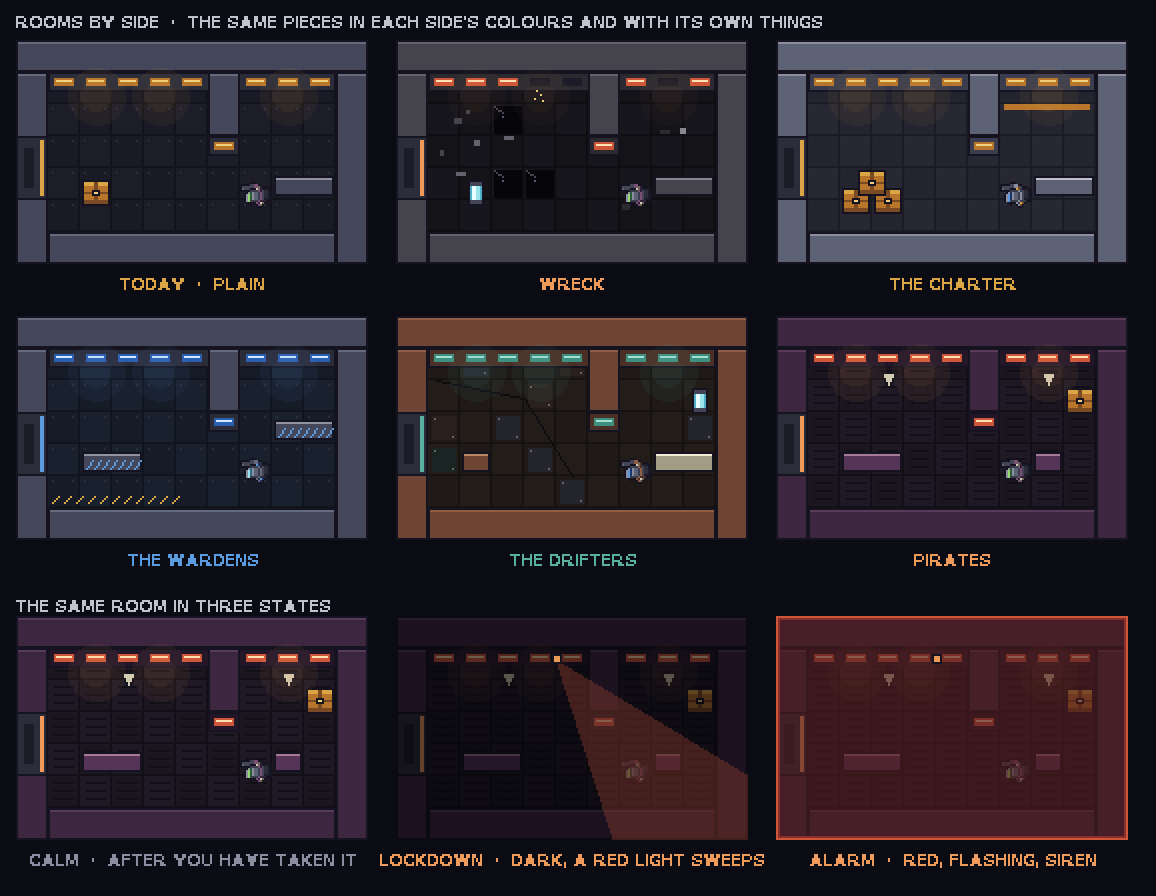
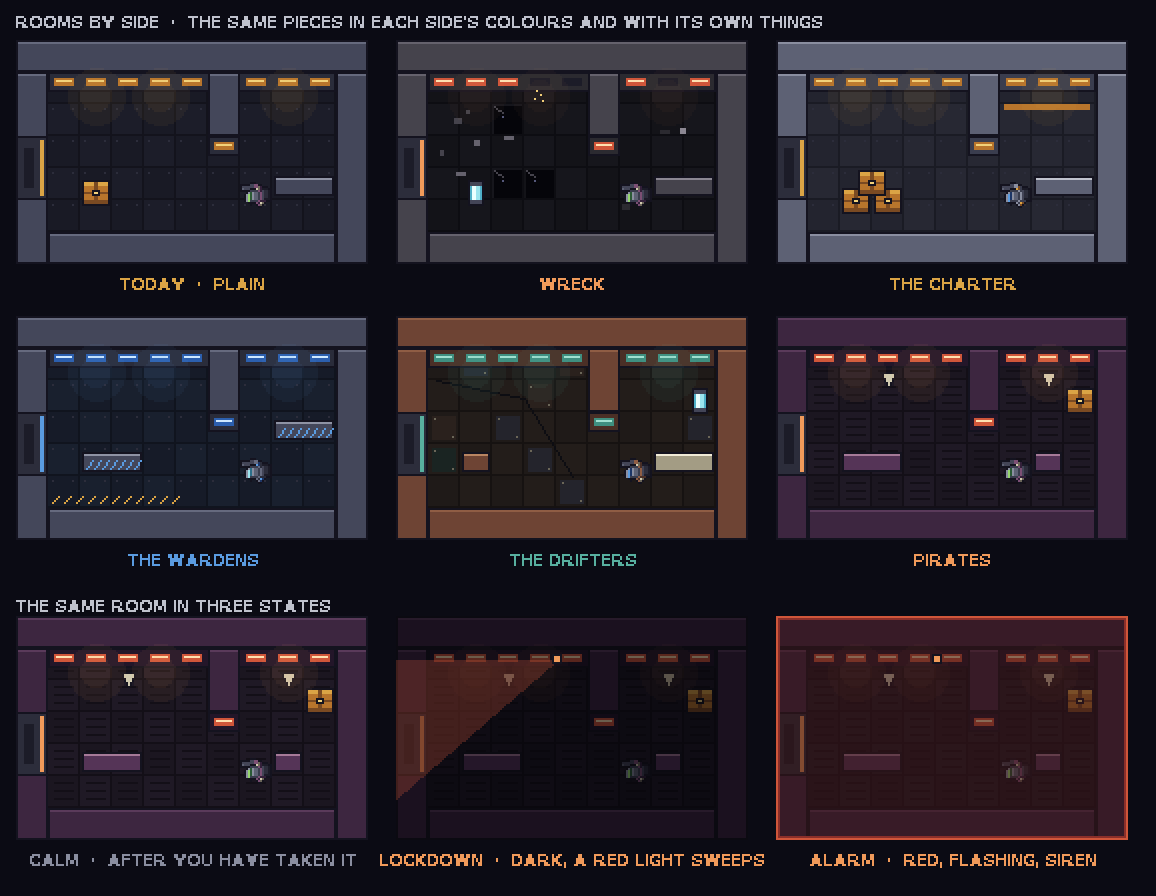
Show lockdown and two versions of the alarm in motion, and record what is approved of the design (D-128)
Claude-Session: https://claude.ai/code/session_019KYzr9o25siTo4kX1Z2A88

Changed region(s): [[0.3426, 0.7188, 0.654, 0.9375]]

diff --git a/docs/design/index.html b/docs/design/index.html
@@ -279,6 +279,13 @@ ul{margin:0;padding-left:1.2em;display:flex;flex-direction:column;gap:8px;max-wi
     <li>I varje rum finns något att ta skydd bakom.</li>
     <li>Lockdown är mörkt med ett rött ljus som sveper. Larm är rött och blinkande, med en ram runt bilden, så att skillnaden syns direkt.</li>
   </ul>
+  <figure>
+    <div class="screen"><img src="img/lockdown-alarm.gif" width="1156" height="332" alt="Rörlig bild med samma rum i tre lägen. I lockdown är rummet mörkt och en röd ljuskägla sveper långsamt runt. I det först föreslagna larmet har rummet ett rött sken som sväller och avtar, och en röd ram. I det starkare larmet blinkar varannan lampa i taget två gånger i sekunden, två ljuskäglor snurrar snabbt och ramen blinkar."></div>
+  </figure>
+  <ul>
+    <li>Skillnaden ligger i hur ljuset rör sig, så den visas bäst i rörelse: lockdown, larmet som först föreslogs, och ett starkare larm.</li>
+    <li>Blinkande rött ljus kan utlösa anfall hos personer med ljuskänslig epilepsi. Larmet blinkar därför högst två gånger i sekunden, och spelet bör få en inställning som dämpar blinkandet.</li>
+  </ul>
   <h3 style="margin:1.5rem 0 .6rem">Planlösningar som görs nya för varje omgång</h3>
   <figure>
     <div class="screen"><img src="img/floor-plans.png" width="1920" height="1280" alt="Planritningar. Överst sex vrak i tre former: Gunboat, okänt skrov och fraktskepp, två exempel av varje. Varje vrak har en korridor längs mitten, rum på båda sidor, maskinrum i aktern, brygga i fören och luftsluss i sidan. Några rum är uppslitna mot rymden. Under dem tre stationer: en ring runt ett nav, fyra dockningsarmar med luftsluss i spetsen, rum mellan ringen och navet, och ett nav med mainframe som bara nås genom en eller två personaldörrar med kamera och vakt. En streckad ruta visar hur mycket som ryms på skärmen."></div>

diff --git a/docs/design/tools/interiors.py b/docs/design/tools/interiors.py
@@ -130,22 +130,32 @@ def room(im, ox, oy, st, seed=1):
 
 
 def mood(im, ox, oy, kind, t):
-    """The same room in lockdown (dark, with a red light that sweeps round) and with the alarm on."""
+    """The same room in lockdown (dark, with a red light that sweeps round), with the alarm on, and with a
+    louder alarm where every lamp flashes. `t` is the time in seconds, for the pictures that move."""
     w, h = COLS * T, ROWS * T
+    cx, cy = ox + 5 * T, oy + T + 6
+    beat = t * 2 % 1 < 0.5
     ov = Image.new('RGBA', im.size, (0, 0, 0, 0))
     o = ImageDraw.Draw(ov)
     o.rectangle([ox, oy, ox + w - 1, oy + h - 1], fill=(4, 3, 8, 150 if kind == 'lockdown' else 120))
     im = Image.alpha_composite(im, ov)
     ov = Image.new('RGBA', im.size, (0, 0, 0, 0))
     o = ImageDraw.Draw(ov)
-    cx, cy = ox + 5 * T, oy + T + 6
+
+    def beam(angle, strength):
+        pts = [(cx, cy)] + [(cx + math.cos(angle + k * 0.12) * 190, cy + math.sin(angle + k * 0.12) * 190) for k in range(-3, 4)]
+        o.polygon(pts, fill=S.rgb(S.EMBER[1]) + (strength,))
     if kind == 'lockdown':
-        # A beacon on the wall throws a red beam that turns.
-        a0 = t
-        pts = [(cx, cy)] + [(cx + math.cos(a0 + k * 0.12) * 150, cy + math.sin(a0 + k * 0.12) * 150) for k in range(-3, 4)]
-        o.polygon(pts, fill=S.rgb(S.EMBER[1]) + (70,))
+        # A beacon on the wall throws a red beam that turns slowly.
+        beam(0.9 + t * math.tau / 3, 70)
+    elif kind == 'alarm':
+        # The whole room glows red, and the glow swells and fades.
+        o.rectangle([ox, oy, ox + w - 1, oy + h - 1], fill=S.rgb(S.EMBER[0]) + (round(75 + 35 * math.sin(t * math.tau)),))
     else:
-        o.rectangle([ox, oy, ox + w - 1, oy + h - 1], fill=S.rgb(S.EMBER[0]) + (90,))
+        # Louder: the room flashes, and two beams spin fast.
+        o.rectangle([ox, oy, ox + w - 1, oy + h - 1], fill=S.rgb(S.EMBER[0]) + (120 if beat else 40,))
+        beam(t * math.tau, 90)
+        beam(t * math.tau + math.pi, 90)
     clip = Image.new('L', im.size, 0)
     ImageDraw.Draw(clip).rectangle([ox, oy, ox + w - 1, oy + h - 1], fill=255)
     ov.putalpha(Image.composite(ov.getchannel('A'), Image.new('L', im.size, 0), clip))
@@ -155,7 +165,54 @@ def mood(im, ox, oy, kind, t):
     if kind == 'alarm':
         d.rectangle([ox, oy, ox + w - 1, oy + h - 1], outline=S.EMBER[1])
         d.rectangle([ox + 1, oy + 1, ox + w - 2, oy + h - 2], outline=S.EMBER[0])
+    if kind == 'alarm2':
+        # Every strip light flashes red, every other one in turn, and the frame round the picture blinks.
+        for k in range(1, COLS - 1):
+            if k == 6:
+                continue
+            on = (k % 2 == 0) == beat
+            x, y = ox + k * T + 3, oy + T + 3
+            d.rectangle([x, y, x + 9, y + 3], fill=S.EMBER[2] if on else S.DARK[0])
+            if on:
+                d.line([(x + 1, y + 1), (x + 8, y + 1)], fill=S.EMBER[3])
+        for k in range(3 if beat else 1):
+            d.rectangle([ox + k, oy + k, ox + w - 1 - k, oy + h - 1 - k], outline=S.EMBER[2 if beat else 0])
     return im
+
+
+def mood_gif():
+    """Lockdown and the two alarms side by side, moving, since the difference between them is in how the light moves."""
+    gap = 14
+    cw = COLS * T + gap
+    W, H = 8 + cw * 3, 20 + ROWS * T + 34
+    base = Image.new('RGBA', (W, H), S.rgb(S.BG) + (255,))
+    d = ImageDraw.Draw(base)
+    S.txt(d, 8, 6, 'LOCKDOWN AND ALARM  ·  THE SAME ROOM, AND HOW THE LIGHT MOVES', S.STEEL[3])
+    views = (('LOCKDOWN', 'DARK, ONE SLOW RED LIGHT', 'lockdown'),
+             ('ALARM  ·  AS FIRST PROPOSED', 'A RED GLOW AND A RED FRAME', 'alarm'),
+             ('ALARM  ·  LOUDER', 'LAMPS FLASH, FAST BEAMS', 'alarm2'))
+    for i, (name, note, kind) in enumerate(views):
+        x = 8 + i * cw
+        base = room(base, x, 20, STYLES['PIRATES'], seed=8)
+        d = ImageDraw.Draw(base)
+        S.txt(d, x + COLS * T // 2, 20 + ROWS * T + 5, name, S.EMBER[2], 'c')
+        S.txt(d, x + COLS * T // 2, 20 + ROWS * T + 17, note, S.STEEL[1], 'c')
+    frames = []
+    count, step = 24, 0.125
+    for f in range(count):
+        im = base.copy()
+        for i, (_, _, kind) in enumerate(views):
+            im = mood(im, 8 + i * cw, 20, kind, f * step)
+        frames.append(im.convert('RGB').resize((W * 2, H * 2), Image.NEAREST))
+    # One palette for all frames, so that the colours do not flicker from frame to frame.
+    strip = Image.new('RGB', (W * 2, H * 2 * 6))
+    for k in range(6):
+        strip.paste(frames[k * 4 + 1], (0, H * 2 * k))
+    palette = strip.quantize(255, dither=Image.Dither.NONE)
+    out = [fr.quantize(palette=palette, dither=Image.Dither.NONE) for fr in frames]
+    path = os.path.join(S.OUT_DIR, 'lockdown-alarm.gif')
+    out[0].save(path, save_all=True, append_images=out[1:], duration=round(step * 1000), loop=0, optimize=False)
+    return (W * 2, H * 2), count
 
 
 def style_sheet():
@@ -558,3 +615,4 @@ def plan_sheet():
 if __name__ == '__main__':
     print('wrote interior-styles.png', style_sheet())
     print('wrote floor-plans.png', plan_sheet())
+    print('wrote lockdown-alarm.gif', mood_gif())

diff --git a/BACKLOG.md b/BACKLOG.md
@@ -107,7 +107,7 @@ Prioritet: Hög, Medel, Låg.
 
 Hos en annan agent: F-048 (musik) är byggd av en annan agent enligt docs/music-brief.md och väntar på att användaren lyssnar på docs/music/ och väljer introtema.
 
-Väntar på användaren: D-128 (designförslaget för utseende utanpå och inuti väntar på ja eller ändringar), D-095 (faktionernas riktiga namn), D-074 (smuggelgods) och D-093 (nya eller fler minigames) behöver ett samtal först. F-091 (mining laser) tas upp när F-085 är provad. D-060, D-061 och D-062 (nätverksförberedelser), F-040 (onlineläget) och F-038 (hoppa in mitt i ett spel) väntar på nätverksmotorn och dess gränser.
+Väntar på användaren: D-128 (bara valet mellan två varianter av larmet är kvar), D-095 (faktionernas riktiga namn), D-074 (smuggelgods) och D-093 (nya eller fler minigames) behöver ett samtal först. F-091 (mining laser) tas upp när F-085 är provad. D-060, D-061 och D-062 (nätverksförberedelser), F-040 (onlineläget) och F-038 (hoppa in mitt i ett spel) väntar på nätverksmotorn och dess gränser.
 
 ## Hög
 
@@ -130,7 +130,7 @@ Väntar på användaren: D-128 (designförslaget för utseende utanpå och inuti
 | F-125 | En lite mer avancerad logik även för attackerande vakter: att de kan gömma sig bakom saker och ta skydd, men inte heller bara vara defensiva. En mix som gör det mer levande. Agentens förslag: vakter går från skydd till skydd, kikar fram och skjuter, kringgår genom en annan dörr när de är flera, drar sig undan när de är skadade, och har olika läggning (försiktig eller framfusig) | Ej påbörjad |
 | F-126 | Flera typer av vakter. Kanske så att de är lättare i början och svårare ju längre man kommer. Agentens förslag på typer: väktare (lätt, slår larm), soldat (tar skydd), tung vakt (pansrad och långsam), tekniker (slår på utslagna turrets igen) och drönare (snabb, går nära). Vilka som finns beror på sektor, på hur farligt stället är och på vems det är | Ej påbörjad |
 | F-127 | Större invändiga baser och skepp, för en mer varierad miljö. Det blir tråkigt att alltid se samma innehåll. Formen på inomhusmiljön bör matcha formen på objektet man bordat, och planlösningen slumpas för varje spelomgång så att alla objekt har olika vägar och rum. I dag är alla insidor samma planlösning, en skärm stor. Agentens förslag: bygg insidan av färdiga rumsbitar längs ett skelett som följer objektets form (ett vrak är långt och smalt, en station är en ring med nav och armar), med tester som vaktar att allt går att nå. Kameran följer då spelaren | Ej påbörjad |
-| D-128 | Skepp och stationer borde se olika ut designmässigt. Ta fram design på inomhusstilar för vrak, stationer och varje sida (pirater och faktioner) och visa den för användaren innan den läggs in, tillsammans med exempel på genererade planlösningar. Oklart om användaren också menar utsidan. Besked 2026-11-14: designförslaget gäller också utsidan: vrak per skeppsklass och märken och påbyggnader per sida på stationer (F-130 till F-132). Förslaget är ritat 2026-11-14: fyra blad på designsidan (vrak, stationer, rum och planlösningar), gjorda av docs/design/tools/places.py och interiors.py | Väntar på användaren |
+| D-128 | Skepp och stationer borde se olika ut designmässigt. Ta fram design på inomhusstilar för vrak, stationer och varje sida (pirater och faktioner) och visa den för användaren innan den läggs in, tillsammans med exempel på genererade planlösningar. Oklart om användaren också menar utsidan. Besked 2026-11-14: designförslaget gäller också utsidan: vrak per skeppsklass och märken och påbyggnader per sida på stationer (F-130 till F-132). Förslaget är ritat 2026-11-14: fyra blad på designsidan (vrak, stationer, rum och planlösningar), gjorda av docs/design/tools/places.py och interiors.py. Besked 2026-11-14: vrak och stationer är bra, och luftslussen i vrakets sida är bra. Kvar: välja mellan två varianter av larmet, som visas i rörelse på designsidan | Väntar på användaren |
 | F-130 | Stationer får färg efter vems de är, på samma sätt som faktionernas skepp har i dag. Stationens färg visar i dag hur den behandlar besättningen, så det visas i stället på annat sätt, till exempel med ljusen på dockningsarmarna. Användaren valde först bara detta (2026-11-14) men ångrade sig samma dag och valde agentens rekommendation, se F-131 och F-132. Besked 2026-11-14: ljusen på armarna är en bra idé. Indikationen på vad en bas har för status ska sitta på armarna | Ej påbörjad |
 | F-133 | Dockningsarmarna fälls ut när ett skepp dockar. Indikationen på vad en bas har för status kan fortfarande sitta på armarna. Agentens anmärkning: gäller både fregatten och fraktskepp som besöker stationen, och armens rörelse ska passa ihop med att skeppet dras in den sista biten | Ej påbörjad |
 | F-134 | I dag kan Engineer bara se sin egen vy. För att det inte ska kännas som att hen blir instängd vore det bra om hen kunde gömma eller fälla bort sin arbetsvy och se vad som händer i rymdvyn, som Captain och Gunner redan gör. Agentens förslag: en tangent och en knapp fäller undan panelen. Kvar blir en smal remsa med energin och varningar om skador, så att Engineer ser när hen behövs. Stationskoden vid inbrott visas i remsan när den behövs. Besked 2026-11-14: förslaget är bra. Engineer börjar med rymden och remsan, inte med hela panelen | Ej påbörjad |
@@ -143,7 +143,7 @@ Väntar på användaren: D-128 (designförslaget för utseende utanpå och inuti
 | D-097 | Plan över droprates och hur de påverkas av olika skepp | Ej påbörjad |
 | D-100 | Vi måste reda ut så att man inte kan hamna i en softlock och inte göra progress för att man har slut på pengar eller bränsle etc | Ej påbörjad |
 | D-101 | Jobba fram mer utstuderade inomhusmiljöer | Ej påbörjad |
-| F-102 | Lockdown mode, så att en fientlig station stänger dörrar till shop och armory tills spelarna tagit över kontrollen Tillägg 2026-11-14: när man går in för att loota på ett fientligt ställe ska det vara roterande röda ljus och hela stället mörkare än normalt, eftersom stället är i lockdown mode. Spelarna kan avbryta detta vid en kontrollpanel längst in. Den ligger på den högsta våningen på ställen med flera våningar. Påverkar musiken | Ej påbörjad |
+| F-102 | Lockdown mode, så att en fientlig station stänger dörrar till shop och armory tills spelarna tagit över kontrollen Tillägg 2026-11-14: när man går in för att loota på ett fientligt ställe ska det vara roterande röda ljus och hela stället mörkare än normalt, eftersom stället är i lockdown mode. Spelarna kan avbryta detta vid en kontrollpanel längst in. Den ligger på den högsta våningen på ställen med flera våningar. Påverkar musiken. Agentens anmärkning 2026-11-14: blinkande rött ljus kan utlösa anfall hos ljuskänsliga. Larmet får blinka högst två gånger i sekunden, och en inställning ska kunna dämpa det | Ej påbörjad |
 | F-120 | Spelet ska tala om för musiken när larmet har gått under en bordning, så att musiken byter från smyg till larm. Lägg till `alarm: true` i det som skickas till `updateMusic()` i `src/main.js` (eller låt `sceneOf()` ge `'alarm'`). Musiken för larm är redan byggd och väntar på det. Hör ihop med F-102 och F-107 | Ej påbörjad |
 | F-121 | Vi provar med att stationer kan falla till pirater även när man är i andra system. När de blir anfallna skickar de ett meddelande till spelaren och rapporterar attacken. Varningen graderas i tre nivåer: low när de inte ser någon stor risk att bli övertagna, medium när risken börjar bli stor och high när de tror att de kommer att förlora | Ej påbörjad |
 | F-122 | Hur ett övertagande av en station går till: angriparna dockar, och det sker en uträkning om de kan ta över basen beroende på hur mycket skydd spelaren har installerat genom mainframen. Det blir fuskigt om man kan skjuta sönder skeppet när det har dockat, så det måste hanteras. Agentens förslag i docs/station-boarding.md avsnitt 14: belägring, bordning och avgörande, där bordarna redan är inne när skeppet har dockat. Besked 2026-11-14: tre steg, byggda i två omgångar: först uträkningen, sedan möjligheten att själv gå in och försvara. En station som faller behåller halva försvaret | Ej påbörjad |

diff --git a/HANDOFF.md b/HANDOFF.md
@@ -244,7 +244,7 @@ Bordning av stationer, besked från användaren (2026-11-14, inget av det är by
 - Inomhusmiljöerna ska bli större och mer varierade: formen bör matcha objektet man bordat, och planlösningen slumpas för varje omgång så att alla objekt har olika vägar och rum. Skepp och stationer ska se olika ut. Vakter ska finnas i flera typer, lättare i början och svårare längre fram, och slåss mer levande med skydd och framryckning (F-125 till F-127, D-128, 2026-11-14).
 - När det blir strid vid en bas ger sig skepp som har ett intresse av striden in i den, till exempel ett faktionsskepp i närheten när dess faktion anfalls. Skepp utan intresse håller sig undan eller lämnar platsen (F-129, 2026-11-14).
 - Utsidan (2026-11-14, användaren valde först bara färg men ändrade sig samma dag): vrak får egna former, ett per skeppsklass som finns (Gunboat och fraktskepp, senare Juggernaut). Stationer får färg, märken och påbyggnader per sida på dagens ringform, och egna former först med de stora baserna (F-103). Hur en station behandlar besättningen visas då på annat sätt än med färgen, till exempel med ljusen på dockningsarmarna. Designen visas först (D-128, F-130 till F-132). Användaren har godkänt ljusen på armarna som indikation, och vill att armarna fälls ut när ett skepp dockar (F-133).
-- Designförslaget D-128 (2026-11-14) är ritat och väntar på ja. Agentens val i det: vrak är skeppet det var, grått och trasigt, i samma skala. Stationer har dagens ring med färg, märken och påbyggnader per sida. Dockningsarmarna är infällda tills ett skepp dockar, och ljusen på deras spetsar visar hållningen: grönt vänlig, vitt neutral, gult avvaktande, släckt stängd, rött fientlig. Insidorna byggs av samma bitar i varje sidas färger. Ett vrak har en korridor längs mitten med luftslussen i sidan, och en station är en ring runt ett nav med luftsluss i varje arm.
+- Designförslaget D-128 (2026-11-14): användaren har godkänt vraken, stationerna och att luftslussen ligger i vrakets sida. Kvar är valet mellan två varianter av larmet. Agentens val i det: vrak är skeppet det var, grått och trasigt, i samma skala. Stationer har dagens ring med färg, märken och påbyggnader per sida. Dockningsarmarna är infällda tills ett skepp dockar, och ljusen på deras spetsar visar hållningen: grönt vänlig, vitt neutral, gult avvaktande, släckt stängd, rött fientlig. Insidorna byggs av samma bitar i varje sidas färger. Ett vrak har en korridor längs mitten med luftslussen i sidan, och en station är en ring runt ett nav med luftsluss i varje arm.
 - Användaren har godkänt hela förslaget i docs/station-boarding.md (2026-11-14). Sista beskeden: större och genererade insidor och smartare vakter görs före lockdown och smygande, anfall på egna stationer sker i tre steg och byggs i två omgångar (först uträkningen, sedan att själv gå in och försvara), och en station som faller behåller halva försvaret.
 - Det som var kvar att bestämma när förslaget skrevs, och som nu är avgjort i dokumentet: hur en attack inifrån börjar på en neutral bas (agentens förslag: en öppen del och en del bara för personal), att ingen längre kastas ut när stationen blir fientlig, hur larm skiljer sig från lockdown i bild, hur oförstörbara turrets aldrig kan låsa spelet, hur hårt bounty hunters slår, och vad panelen på en ägd station ska kunna när stationer i dag lagar sig själva.
 
@@ -305,6 +305,8 @@ Grafik
 - Effekter och ljud läser bara av spelet och behöver aldrig skickas över nätet.
 
 ## Lagar och regler
+
+- Blinkande ljus (2026-11-14): larmet vid bordning blinkar rött. Blinkande rött ljus kan utlösa anfall hos personer med ljuskänslig epilepsi. Gängse riktlinje för webben (WCAG 2.3.1) är högst tre blinkningar per sekund. Spelet håller sig till högst två, och bör få en inställning som dämpar blinkandet när larmet byggs (F-102).
 
 Genomgång 2026-11-14 (D-033). Agenten är ingen jurist, och inget här är juridisk rådgivning. Officiella källor är IMY (imy.se) för personuppgifter och PTS (pts.se) för kakor och liknande lagring.
 
